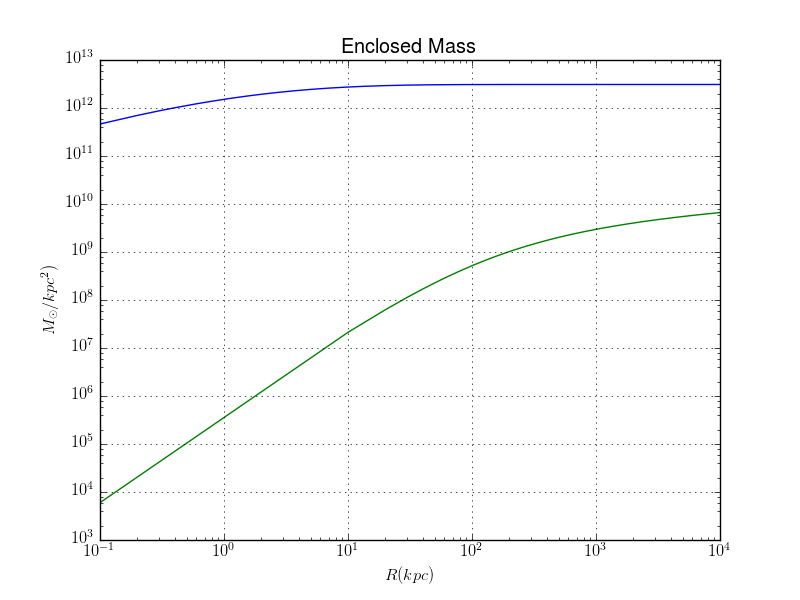
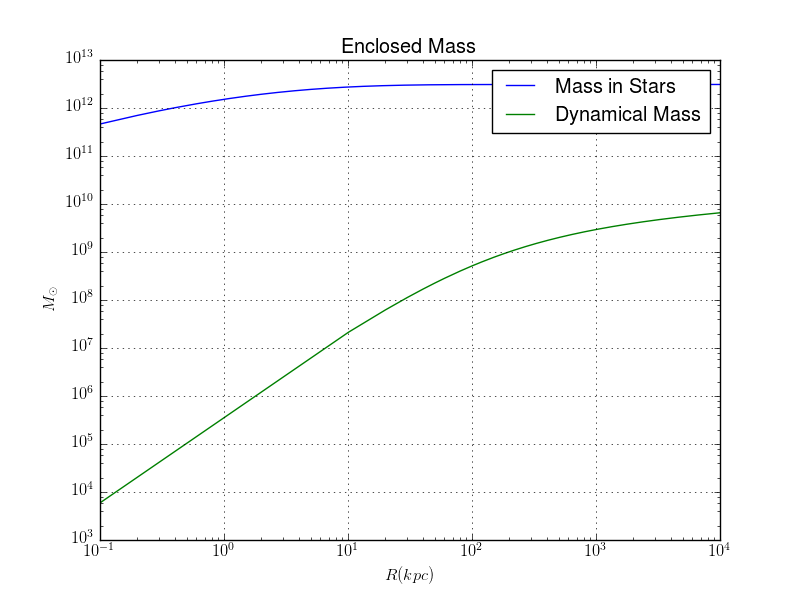
update

diff --git a/plots/Shear_vs_radius.py b/plots/Shear_vs_radius.py
@@ -1,0 +1,31 @@
+import numpy as np
+from scipy import integrate
+from scipy.integrate import quad
+import matplotlib as mpl
+import matplotlib.patches as mpatches
+import matplotlib.pyplot as plt
+mpl.rcParams['text.usetex'] = True
+
+c        = 4.46           # concentration parameter (Paper Dutton and Maccio) 
+#delta_c  = 6716.38        # Dimensionless overdensity using 4.46
+delta_c = (200/3)*(c*c*c)/(np.log(1+c)-c/(1+c))
+rho_c    = 197.8            # Critical density in M_sun/kpc^3 (197.8)
+r_s      = 100            # Characteristic radius (kpc) 
+sigma_c  = 10**8
+
+x1 = np.arange(0.001,0.99,0.0001)
+plt.plot(x1*r_s,((r_s*delta_c*rho_c+x1-x1)/(sigma_c))*( ((8*np.arctanh(np.sqrt((1-x1)/(1+x1))))/(x1*x1*np.sqrt(1-x1*x1))) + ((4*(np.log(x1/2)))/(x1*x1)) - ((2)/(x1*x1-1)) + ((4*np.arctanh(np.sqrt((1-x1)/(1+x1))))/((x1*x1-1)*(1-x1*x1)**0.5))))
+x2 = 1
+plt.plot(x2*r_s,((r_s*delta_c*rho_c+x2-x2)/(sigma_c))*(10/3+4*np.log(0.5)))
+x3 = np.arange(1.0001,10,0.0001)
+plt.plot(x3*r_s,((r_s*delta_c*rho_c+x3-x3)/(sigma_c))*( ((8*np.arctan(np.sqrt((x3-1)/(1+x3))))/(x3*x3*np.sqrt(x3*x3-1))) + ((4*(np.log(x3/2)))/(x3*x3)) - ((2)/(x3*x3-1)) + ((4*np.arctan(np.sqrt((x3-1)/(1+x3))))/((x3*x3-1)**1.5))))
+
+#plt.yscale('log')
+#plt.xscale('log')
+plt.xlabel('$R(kpc)$')
+plt.ylabel('$\gamma_{NFW}$')
+plt.title('Shear dependence on radius')
+plt.grid(True)
+#plt.legend()
+plt.savefig("Shear dependence on radius.png")
+plt.show()

diff --git a/plots/projected_mass.py b/plots/projected_mass.py
@@ -7,7 +7,8 @@ import matplotlib.pyplot as plt
 mpl.rcParams['text.usetex'] = True
 
 c        = 4.46           # concentration parameter (Paper Dutton and Maccio) this was checked many times 
-delta_c  = 6716.38        # Dimensionless overdensity using 4.46
+#delta_c  = 6716.38        # Dimensionless overdensity using 4.46
+delta_c = (200/3)*(c*c*c)/(np.log(1+c)-c/(1+c))
 rho_c    = 200            # Critical density in M_sun/kpc^3 (197.8)
 r_s      = 100            # Characteristic radius (kpc) 
 I_e      = 2.6*10**9      # Effective brightness I(Re) 2.6e6
@@ -25,7 +26,7 @@ def F(r):
         y,err = integrate.quad(surf_bright,0,val)
         res[i]=y
     return res
-plt.plot(R,F(R))
+plt.plot(R,F(R),label='Mass in Stars')
 
 #NOW FOR THE MASS OF THE NFW PROFILE
 
@@ -46,12 +47,12 @@ def Mass(x):
         y,err = integrate.quad(NFW,0,val)
         res2[j]=y
     return res2
-plt.plot(X*r_s,Mass(X))
+plt.plot(X*r_s,Mass(X),label='Dynamical Mass')
 
 plt.yscale('log')
 plt.xscale('log')
 plt.xlabel('$R(kpc)$')
-plt.ylabel('$M_{\odot }/ kpc^{2})$')
+plt.ylabel('$M_{\odot }$')
 plt.title('Enclosed Mass')
 plt.grid(True)
 plt.legend()

diff --git a/plots/Surface_mass_density.py b/plots/Surface_mass_density.py
@@ -9,7 +9,8 @@ mpl.rcParams['text.usetex'] = True
 # This plot is made for the cluster ABELL 1068
 
 c        = 4.46           # concentration parameter (Paper Dutton and Maccio) this was checked many times 
-delta_c  = 6716.38        # Dimensionless overdensity using 4.46
+#delta_c  = 6716.38        # Dimensionless overdensity using 4.46
+delta_c = (200/3)*(c*c*c)/(np.log(1+c)-c/(1+c))
 rho_c    = 200            # Critical density in M_sun/kpc^3 (197.8)
 r_s      = 100            # Characteristic radius (kpc) 
 I_e      = 2.6*10**9      # Effective brightness I(Re) 2.6e6
